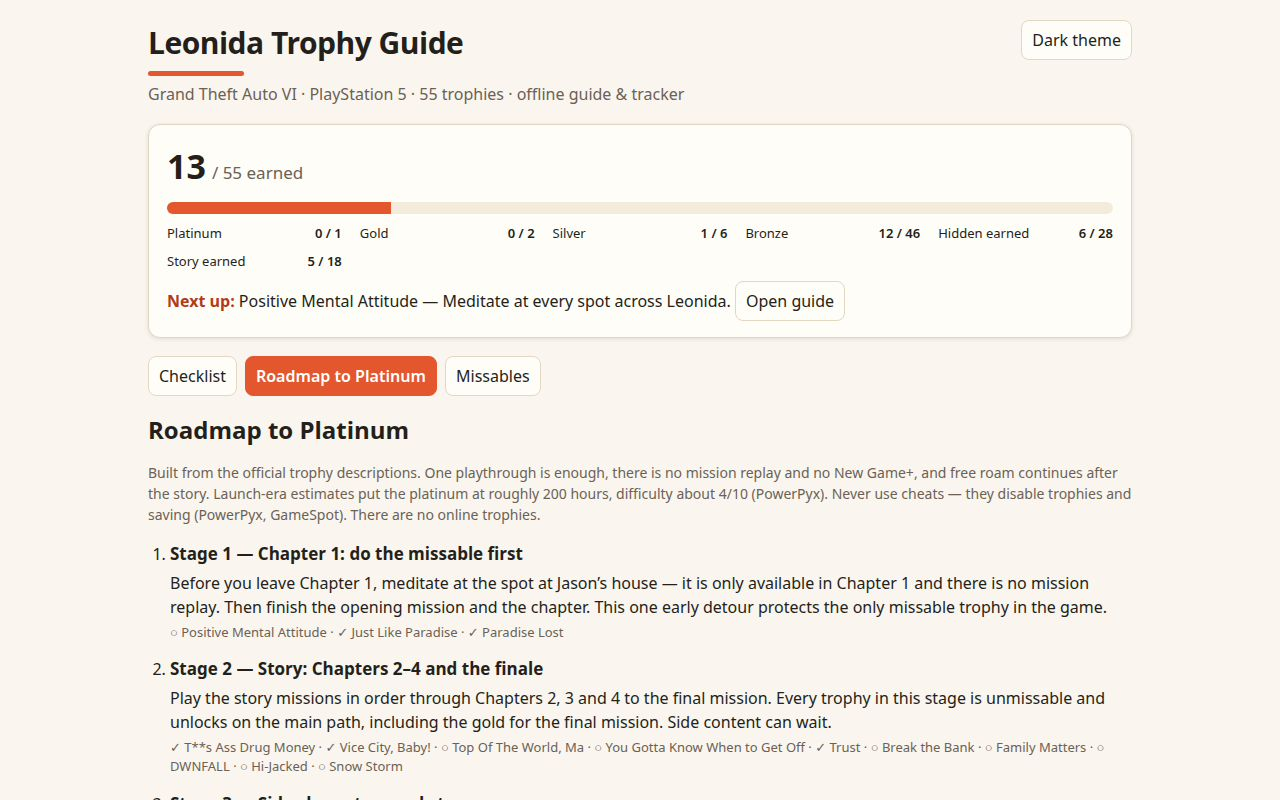
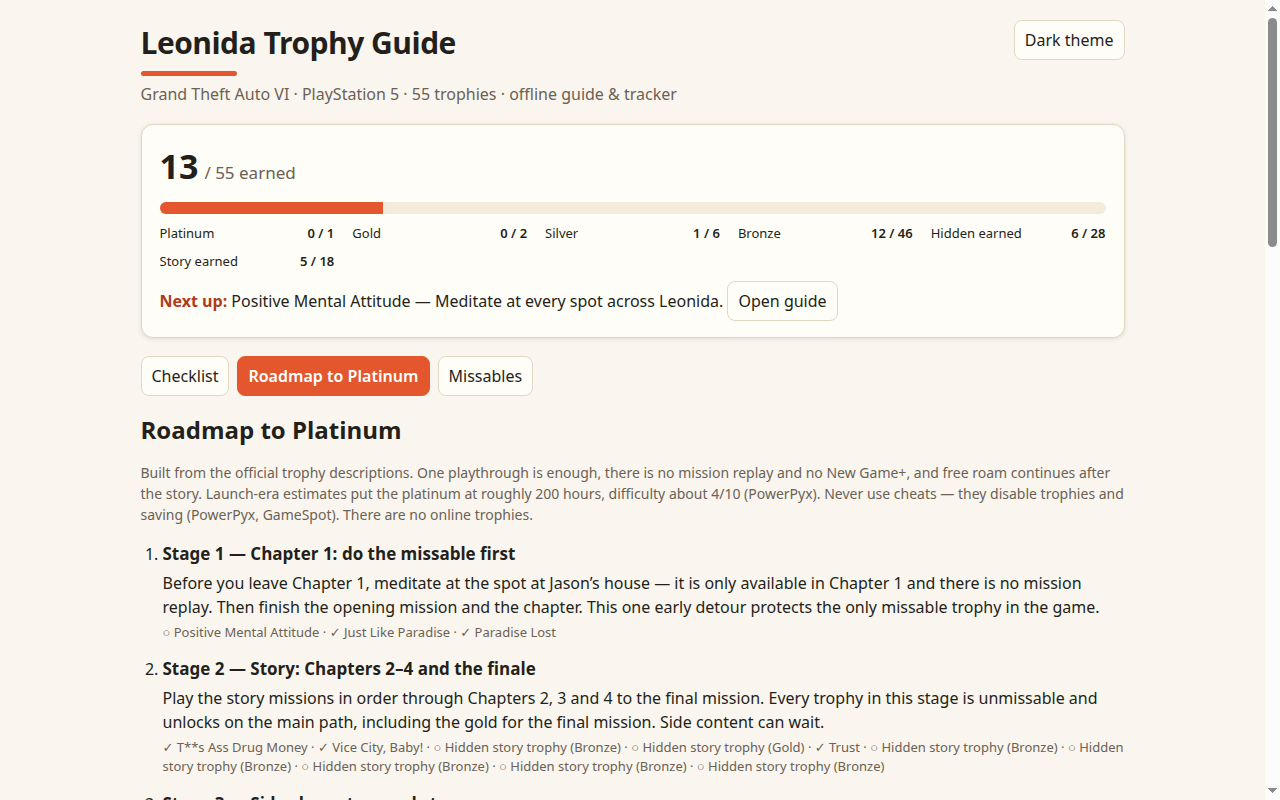
Fix roadmap spoiler leak: hide unearned story trophies in renderRoadmap
renderRoadmap wrote story trophy names verbatim in both the stage
lists and the order-at-a-glance list, leaking unearned story
trophies even with spoilers ON. Reuse the existing isSpoilerHidden
helper (same as checklist/detail): unearned story trophies now show
'Hidden story trophy (Grade)' in both spots; earned trophies and
spoiler-OFF rendering are unchanged. Retake screenshot 3 with the
fix in place.

diff --git a/app/app.js b/app/app.js
@@ -146,10 +146,12 @@ function renderProgress() {
 
 function renderRoadmap() {
   $('stages').innerHTML = STAGES.map((s) => `<li><h3>${s.title}</h3><p>${s.text}</p>
-    <p class="ids">${s.ids.map((id) => { const t = byId(id); return `${earned.has(id) ? '✓' : '○'} ${t ? t.name : id}`; }).join(' · ')}</p></li>`).join('');
+    <p class="ids">${s.ids.map((id) => { const t = byId(id); const label = t ? (isSpoilerHidden(t) ? `Hidden story trophy (${gradeLabel(t.grade)})` : t.name) : id; return `${earned.has(id) ? '✓' : '○'} ${label}`; }).join(' · ')}</p></li>`).join('');
   $('roadmapOrder').innerHTML = ROADMAP_ORDER.map((id) => {
     const t = byId(id);
-    return `<li>${earned.has(id) ? '✓ ' : ''}${t ? t.name : id}${t && t.missable ? ' — missable!' : ''}${t && t.unconfirmed ? ' — unconfirmed' : ''}</li>`;
+    if (!t) return `<li>${id}</li>`;
+    if (isSpoilerHidden(t)) return `<li>Hidden story trophy (${gradeLabel(t.grade)})</li>`;
+    return `<li>${earned.has(id) ? '✓ ' : ''}${t.name}${t.missable ? ' — missable!' : ''}${t.unconfirmed ? ' — unconfirmed' : ''}</li>`;
   }).join('');
 }
 
